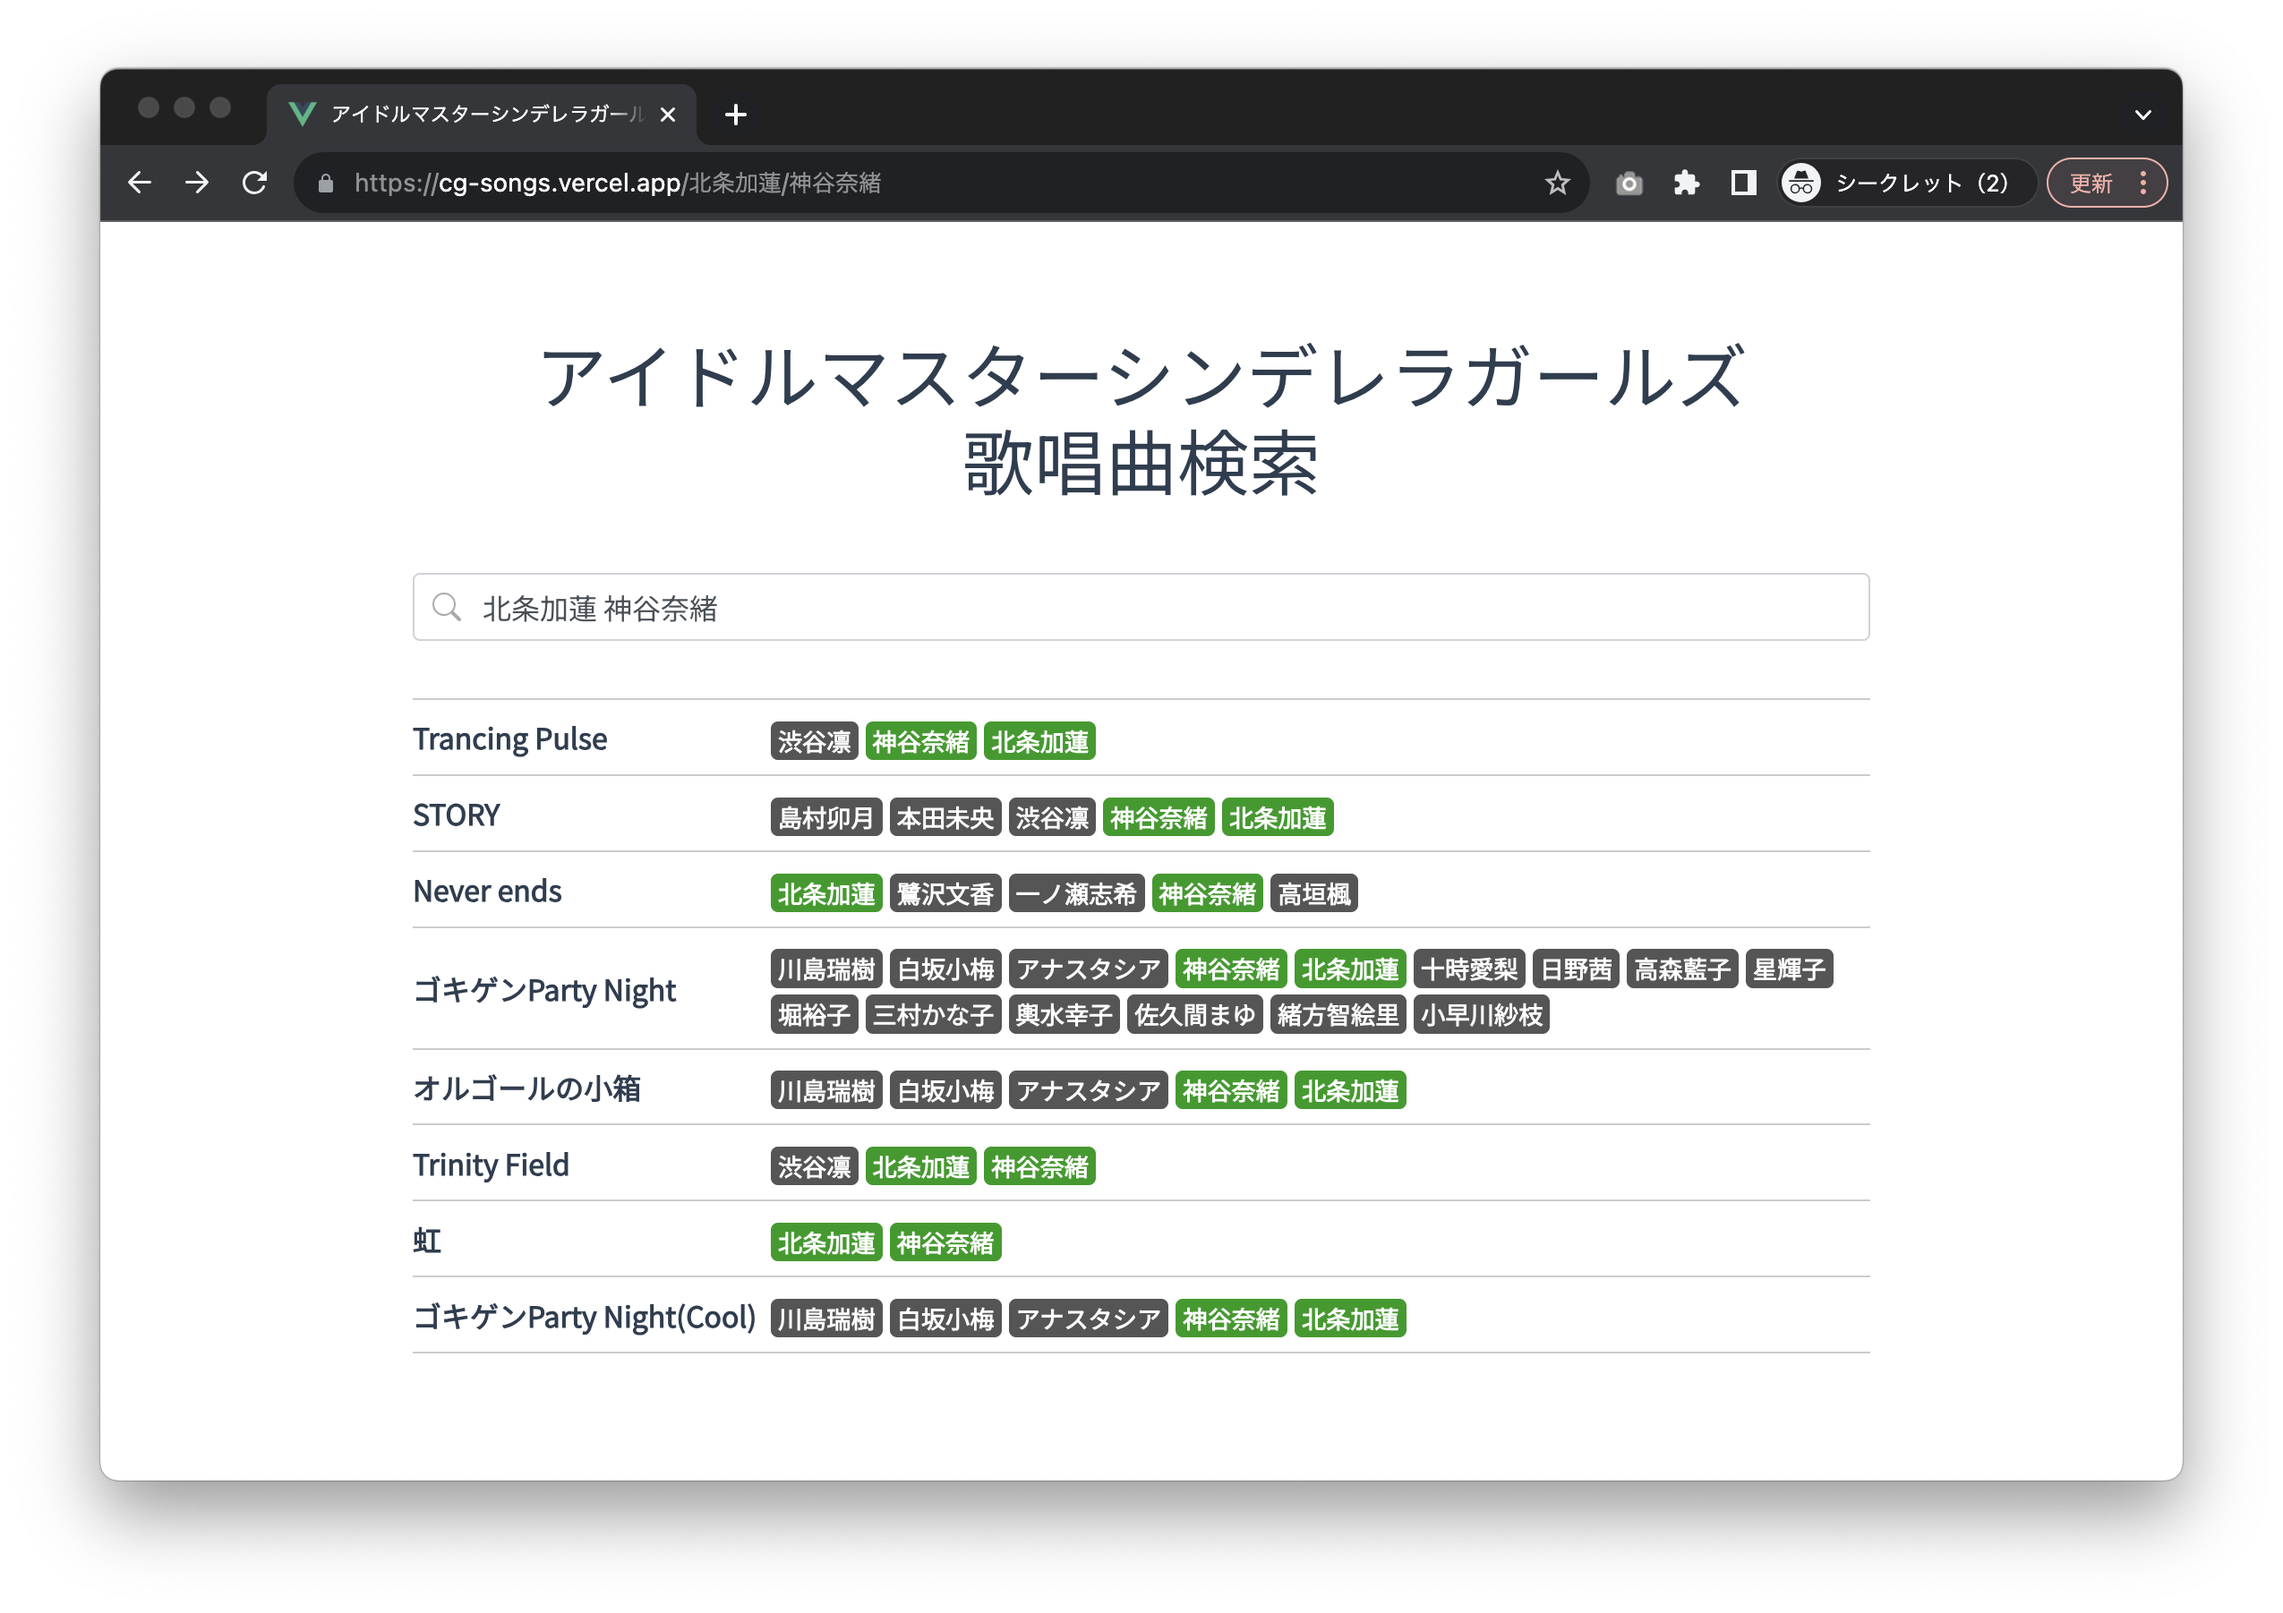
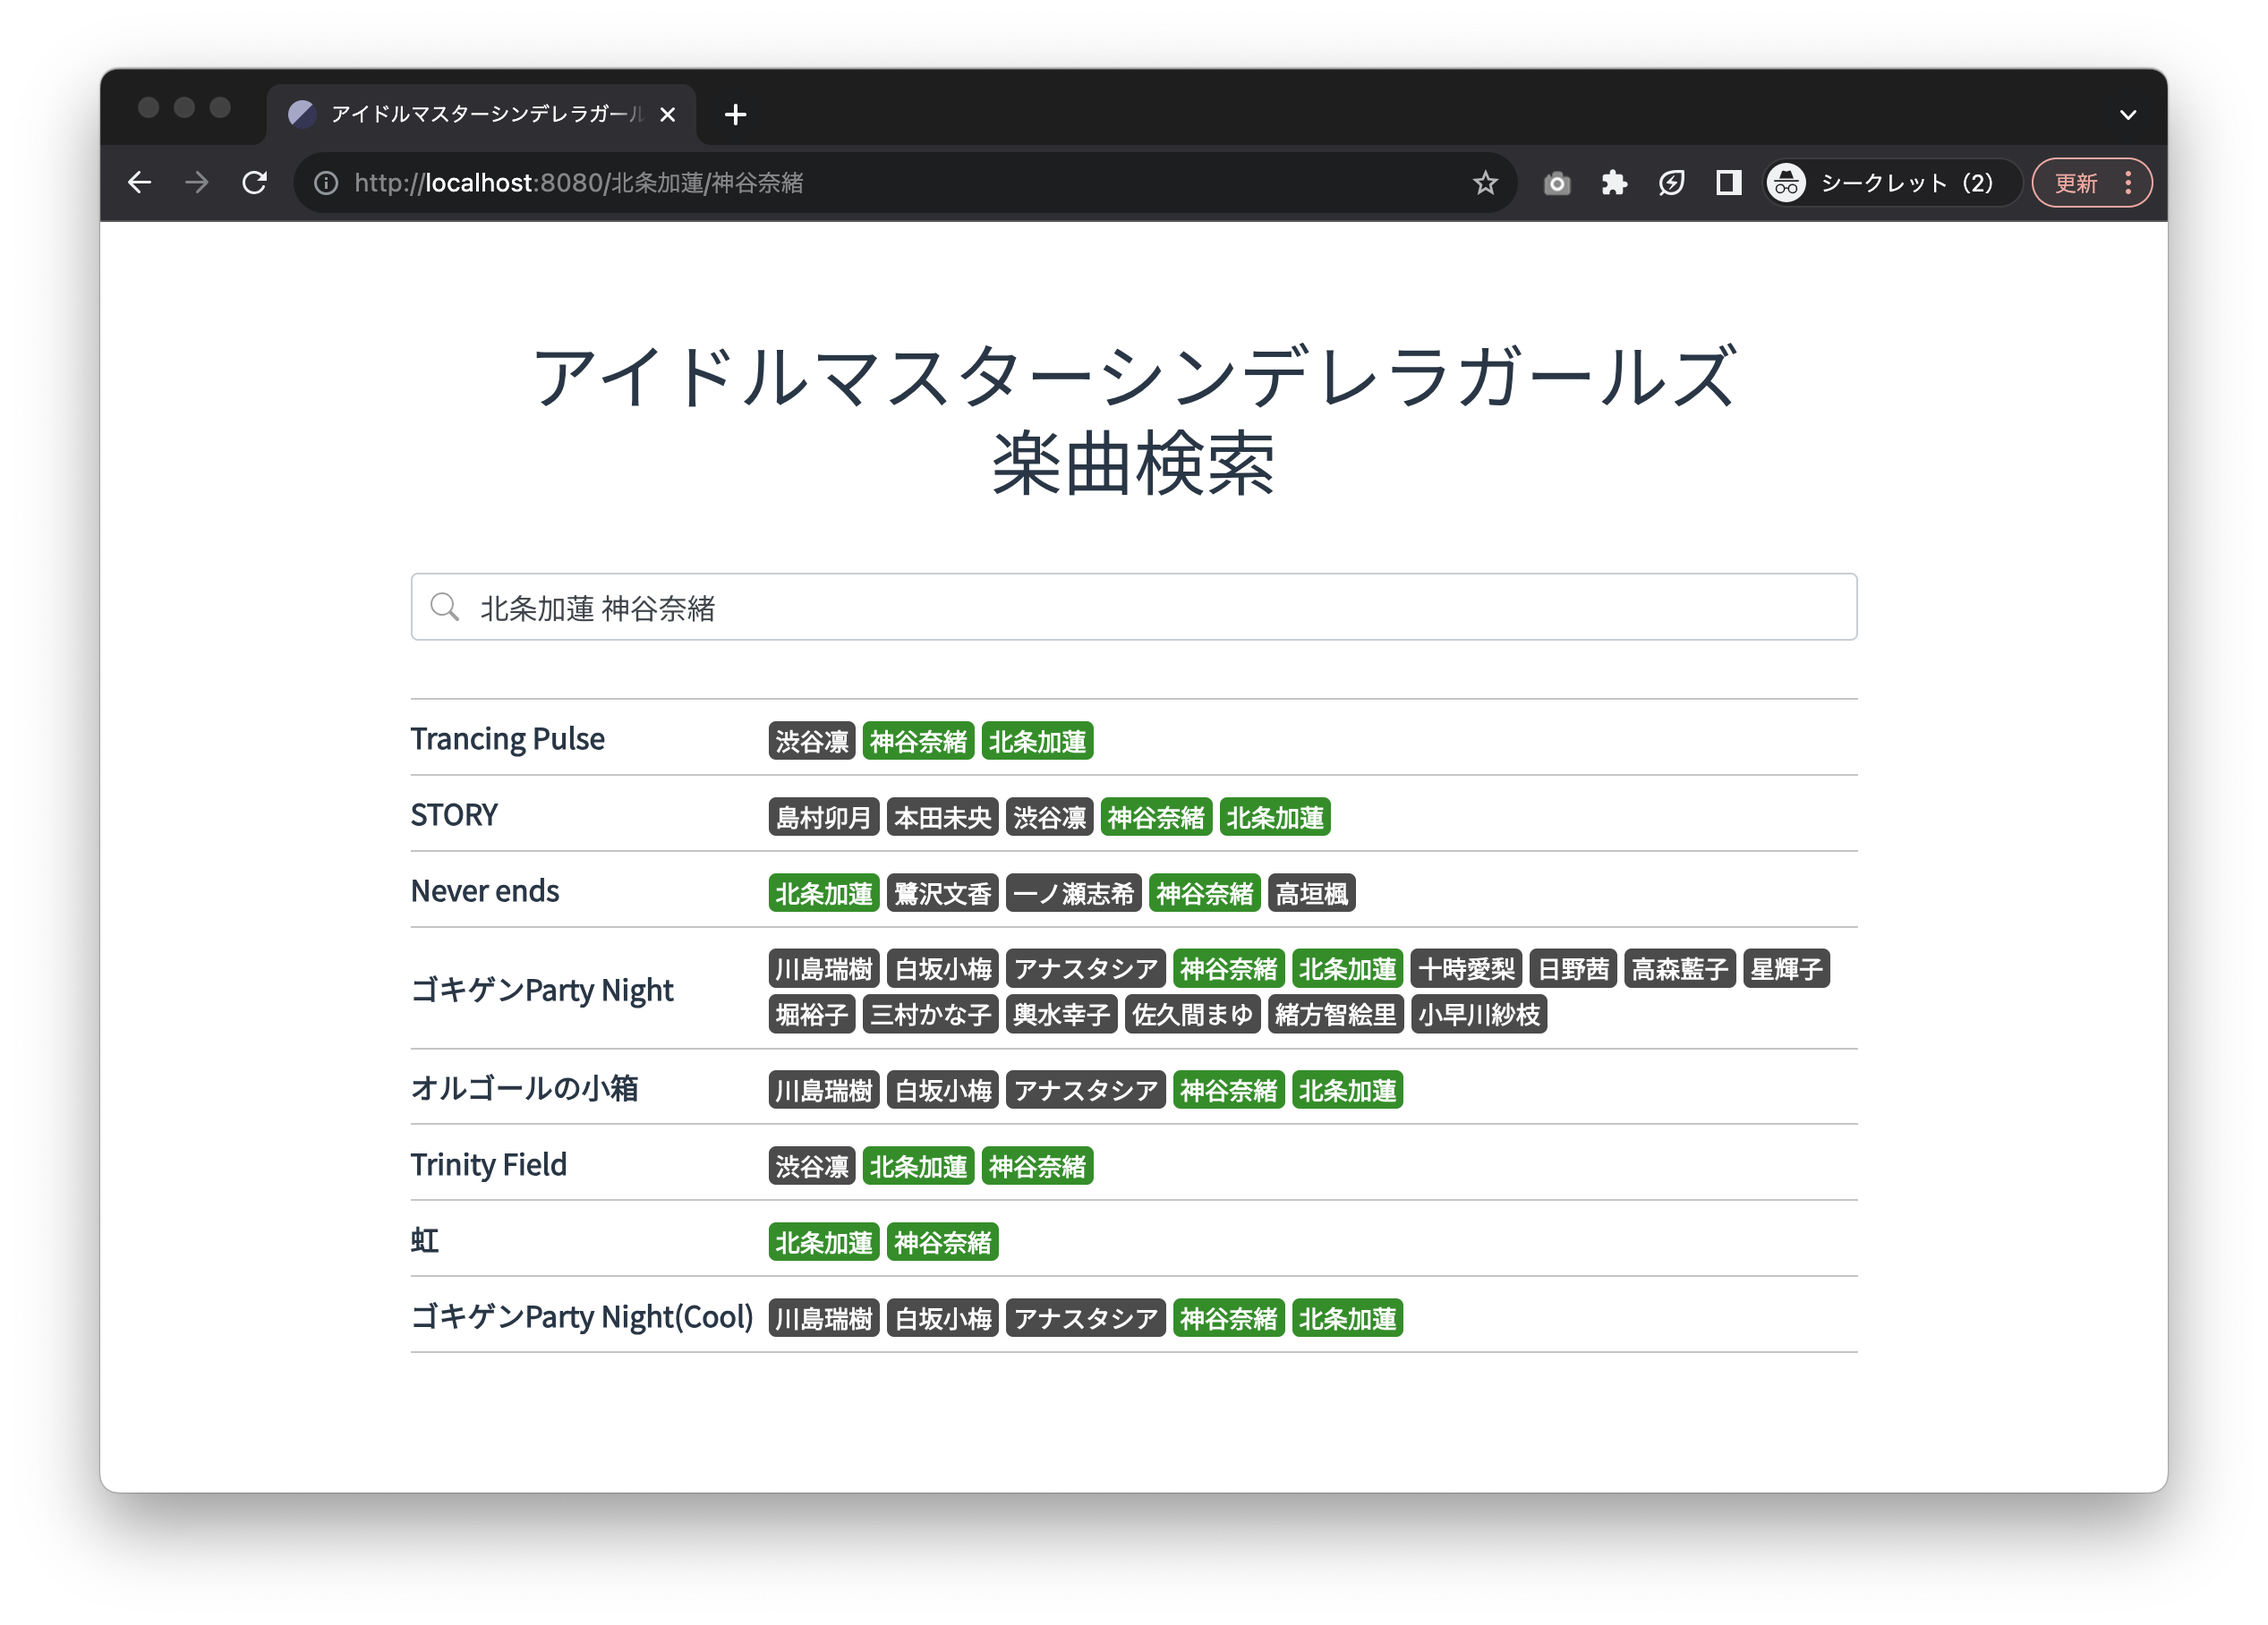
Update text

diff --git a/public/index.html b/public/index.html
@@ -1,11 +1,29 @@
 <!doctype html>
-<html lang="en">
+<html lang="ja">
   <head>
     <meta charset="utf-8" />
     <meta http-equiv="X-UA-Compatible" content="IE=edge" />
     <meta name="viewport" content="width=device-width,initial-scale=1.0" />
+
+    <meta
+      name="description"
+      content="アイドルマスターシンデレラガールズの楽曲をキャラクター名で検索できます。"
+    />
+    <meta name="author" content="4423.ch" />
+
+    <meta property="og:type" content="website" />
+    <meta property="og:url" content="https://cg-songs.vercel.app/" />
+    <meta
+      property="og:title"
+      content="アイドルマスターシンデレラガールズ 楽曲検索"
+    />
+    <meta
+      property="og:description"
+      content="アイドルマスターシンデレラガールズの楽曲をキャラクター名で検索できます。"
+    />
+
     <link rel="icon" href="<%= BASE_URL %>favicon.ico" />
-    <title>アイドルマスターシンデレラガールズ歌唱曲検索</title>
+    <title>アイドルマスターシンデレラガールズ 楽曲検索</title>
   </head>
   <body>
     <noscript>

diff --git a/src/components/Setlist.vue b/src/components/Setlist.vue
@@ -5,11 +5,13 @@
       :songs="songs"
       :selected="artists"
     ></Songs>
-    <span v-if="!hasArtists"> キャラクター名を指定してください。 </span>
+    <span v-else-if="!hasArtists"> キャラクター名を入力してください。 </span>
     <span v-else-if="songs == null || songs.length == 0">
       見つかりませんでした。 フルネームで指定していますか？
     </span>
-    <span v-else-if="failedToLoad"> データの読み込みに失敗しました。 </span>
+    <span v-else-if="failedToLoad">
+      データの読み込みに失敗しました。再度時間を置いて試してください。
+    </span>
   </div>
 </template>
 

diff --git a/src/components/Content.vue b/src/components/Content.vue
@@ -1,7 +1,7 @@
 <template>
   <div id="content">
     <router-link to="/" class="title">
-      <h1>アイドルマスターシンデレラガールズ<br />歌唱曲検索</h1>
+      <h1>アイドルマスターシンデレラガールズ<br />楽曲検索</h1>
     </router-link>
     <div class="form-group has-search">
       <b-icon-search class="fa fa-search form-control-feedback"></b-icon-search>

diff --git a/README.md b/README.md
@@ -1,4 +1,4 @@
-# アイドルマスターシンデレラガールズ 歌唱曲検索
+# アイドルマスターシンデレラガールズ 楽曲検索
 
 Allow us to search songs of THE IDOLMASTER CINDERELLA GIRLS by character names like `北条加蓮 神谷奈緒`.
 
